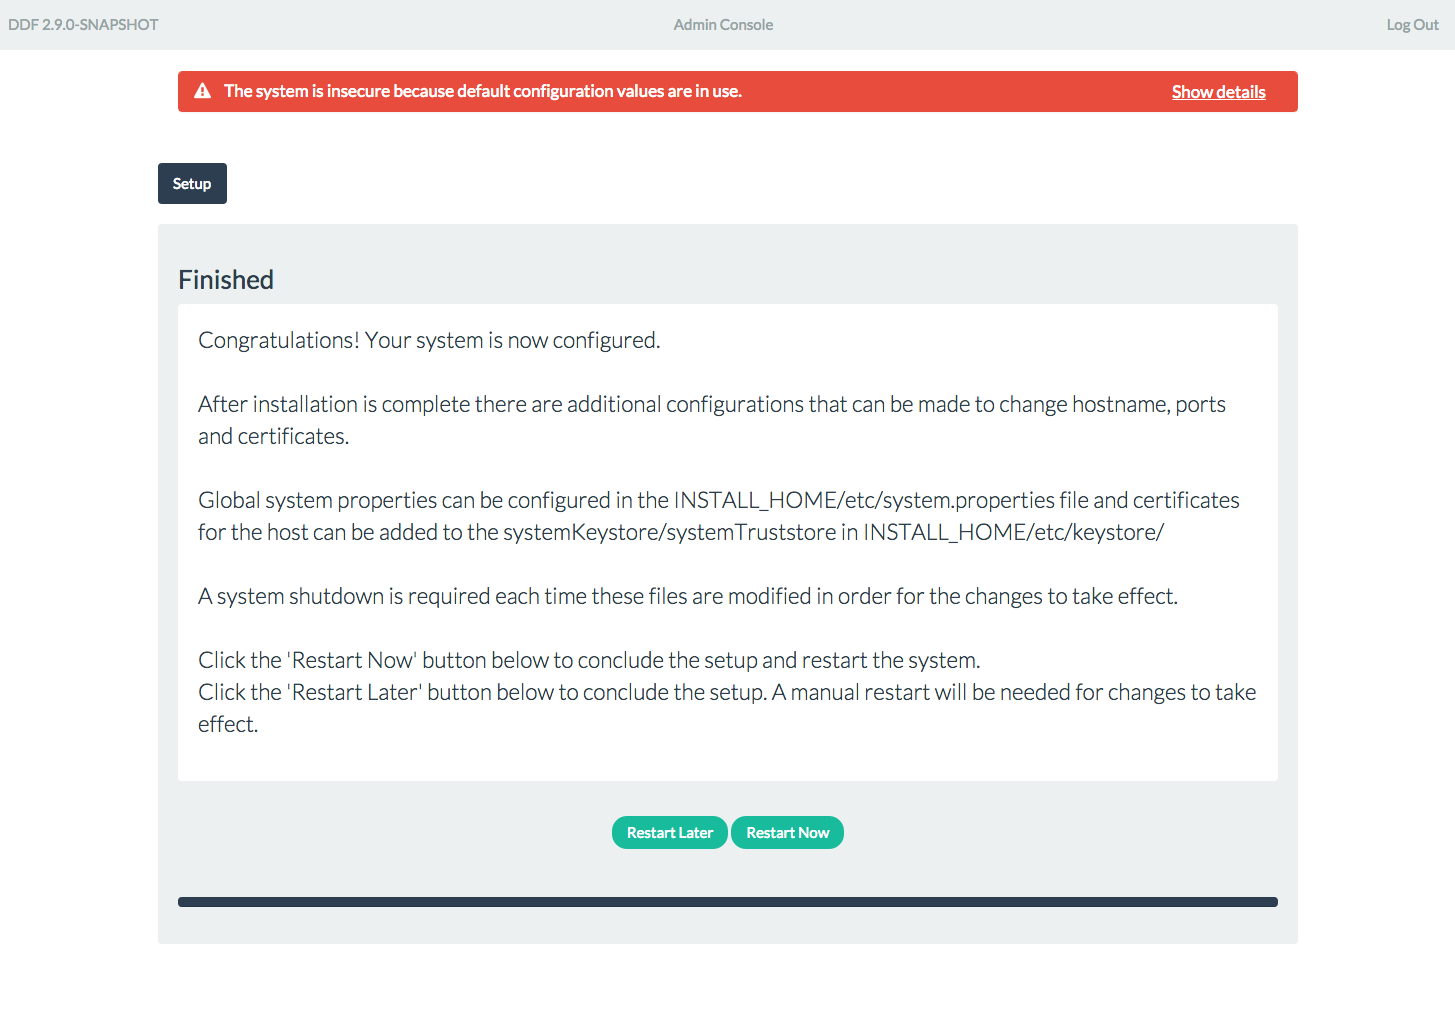
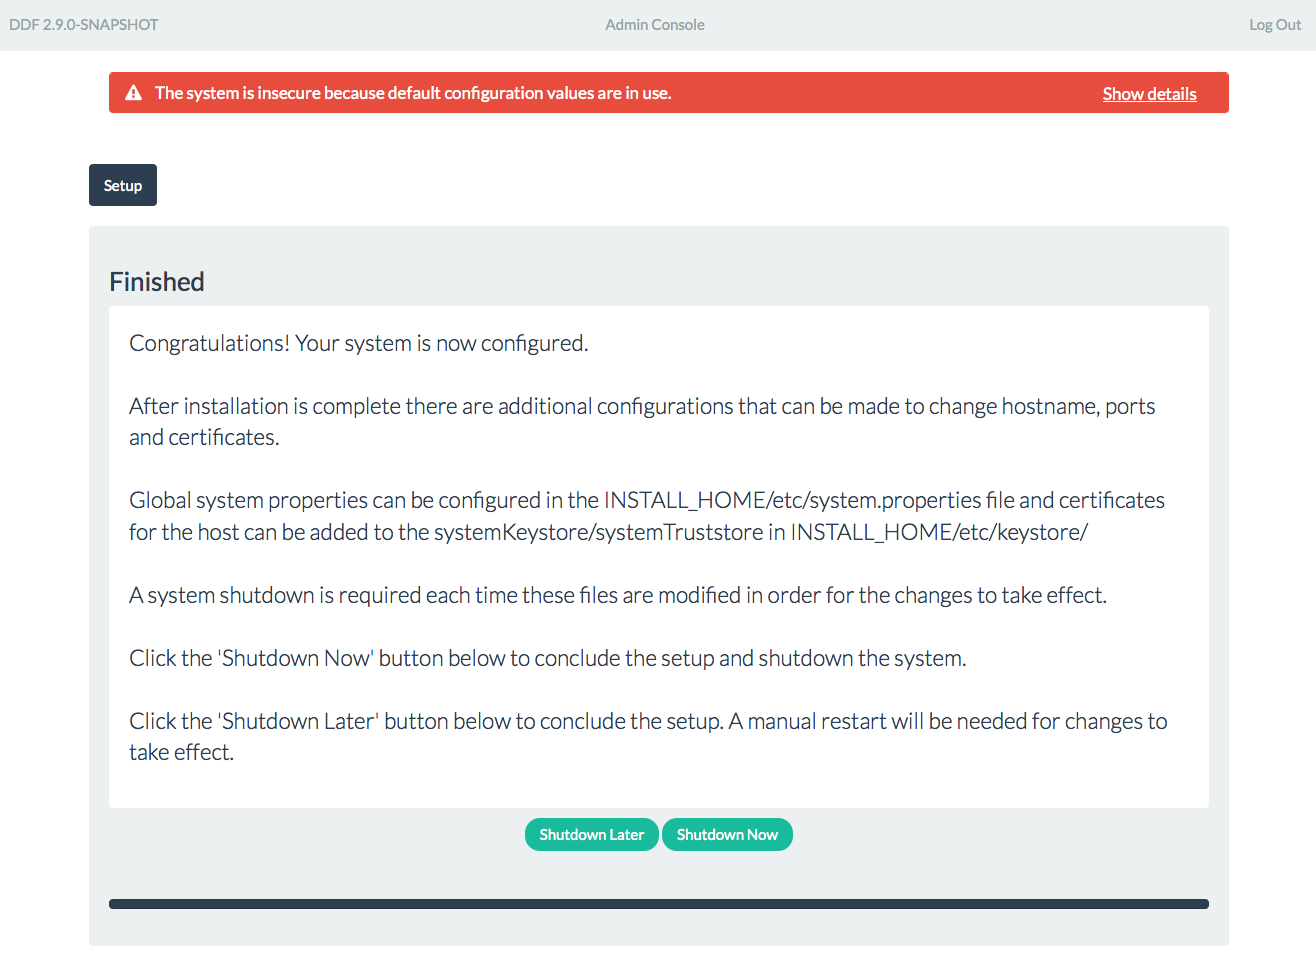
DDF-2077 Replace Restart Now button with Shutdown Now button on installer page (#733)

diff --git a/platform/admin/ui/src/main/webapp/js/models/Installer.js b/platform/admin/ui/src/main/webapp/js/models/Installer.js
@@ -12,7 +12,7 @@
  * <http://www.gnu.org/licenses/lgpl.html>.
  *
  **/
-/*global define , location , alert , window*/
+/*global define , location , window*/
 define([
     'backbone',
     'underscore',
@@ -47,9 +47,9 @@ define([
     };
 
     Installer.Model = Backbone.Model.extend({
-        installUrl:'/jolokia/exec/org.apache.karaf:type=feature,name=root/installFeature(java.lang.String,boolean)/',
+        installUrl: '/jolokia/exec/org.apache.karaf:type=feature,name=root/installFeature(java.lang.String,boolean)/',
         uninstallUrl: '/jolokia/exec/org.apache.karaf:type=feature,name=root/uninstallFeature(java.lang.String,boolean)/',
-        rebootUrl:    '/jolokia/exec/org.apache.karaf:type=system,name=root/rebootCleanAll()',
+        shutdownUrl: '/jolokia/exec/org.apache.karaf:type=system,name=root/halt()',
         defaults: function () {
             return {
                 hasNext: true,
@@ -123,7 +123,7 @@ define([
         previousStep: function() {
             this.set(_step.call(this, -1));
         },
-        save: function(reboot) {
+        save: function(shutdown) {
             var that = this;
             wreqr.vent.trigger('modulePoller:stop');
             return $.ajax({
@@ -136,19 +136,16 @@ define([
                     url: that.installUrl + 'admin-post-install-modules/true',
                     dataType: 'JSON'
                 }).then(function(){
-                    if (reboot) {
+                    if (shutdown) {
                         $.ajax({
                             type: 'GET',
-                            url: that.rebootUrl,
+                            url: that.shutdownUrl,
                             dataType: 'JSON'
                         }).done(function () {
                             window.setTimeout(function () {
                               window.location.href = that.get("redirectUrl");
                             }, 30000);
-                        }).fail(function () {
-                            alert("Error trying to restart system. Please manually restart the system.");
                         });
-
                     } else {
                         location.reload();
                     }

diff --git a/platform/admin/ui/src/main/webapp/js/views/installer/Navigation.view.js b/platform/admin/ui/src/main/webapp/js/views/installer/Navigation.view.js
@@ -33,8 +33,8 @@ define([
             'click .previous': 'previous',
             'click .next': 'next',
             'click .finish': 'finish',
-            'click .restart-later': 'finish',
-            'click .restart-now': 'restart'
+            'click .shutdown-later': 'finish',
+            'click .shutdown-now': 'shutdown'
         },
         initialize: function() {
             this.listenTo(this.model, 'change', this.updateProgress);
@@ -70,9 +70,9 @@ define([
                 alert('Final installation failed, please check application logs for details.');
             });
          },
-         restart: function() {
+         shutdown: function() {
             this.model.trigger('block');
-            this.model.set({message: 'Restarting.... If not automatically redirected in a little while click the link above.'});
+            this.model.set({message: 'Shutting down.... When complete please manually start the system and then go to the Admin Console.'});
             this.model.save(true)
             .fail(function(){
                 alert('Final installation failed, please check application logs for details.');
